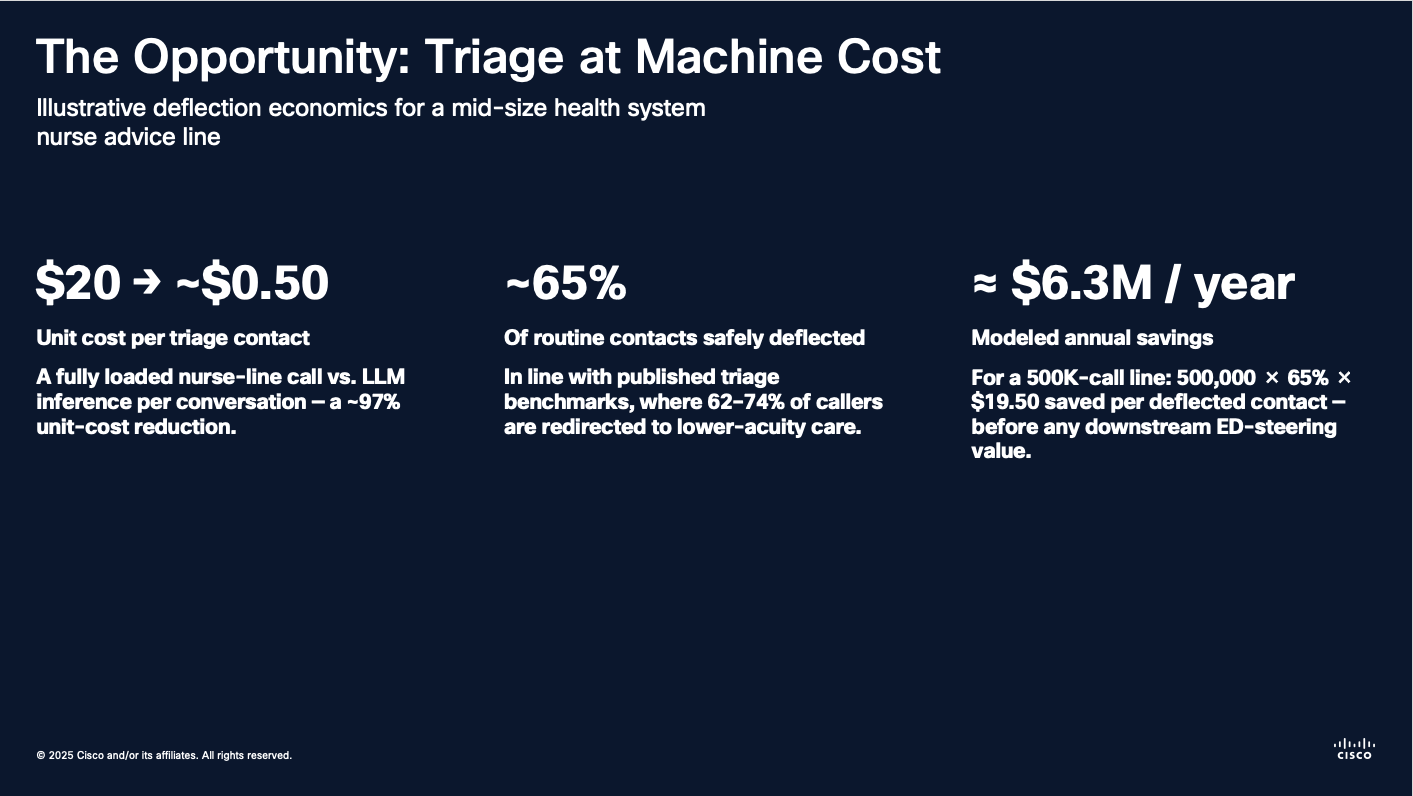
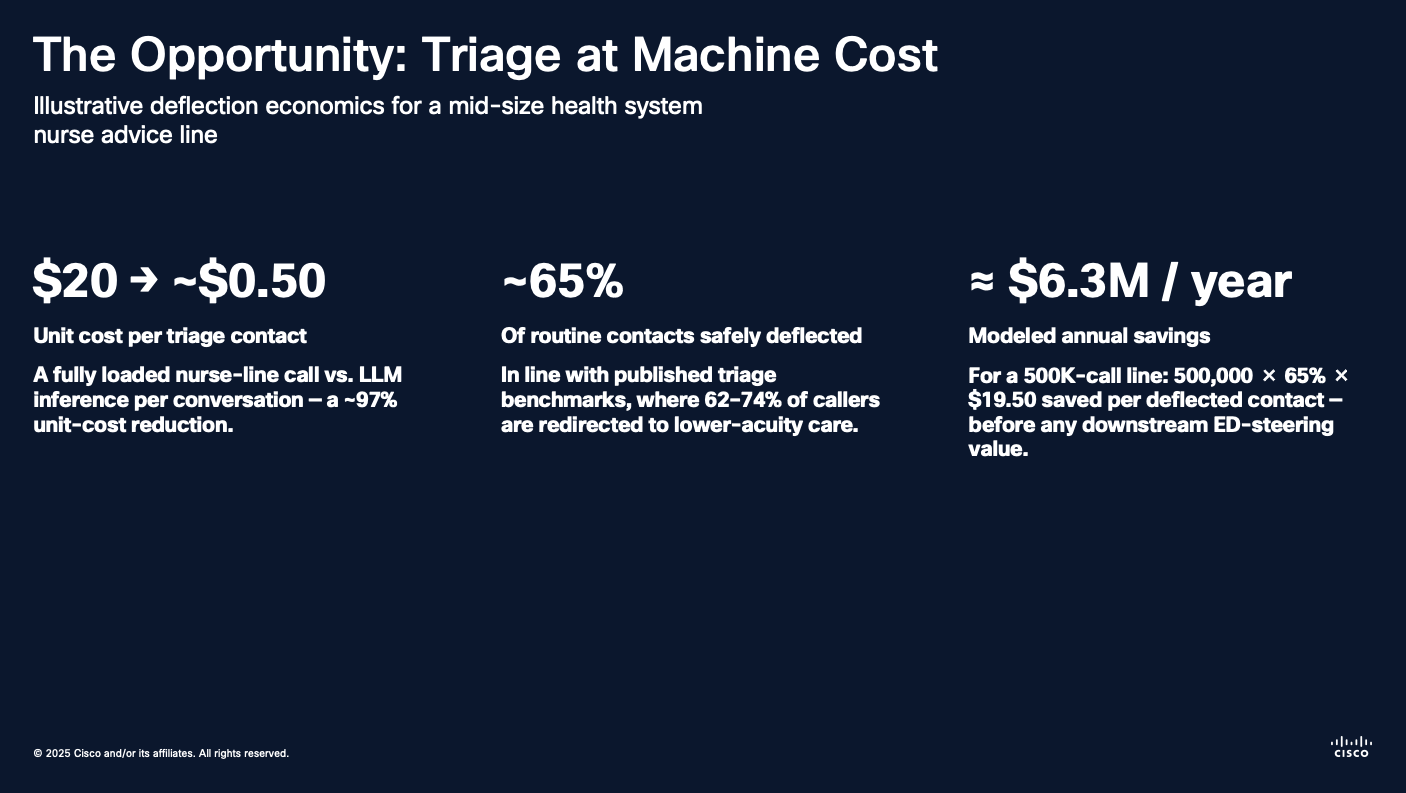
Update the two Scenario screenshots; tighten Thesis punctuation
Replace static/images/image-120.png and image-121.png with new versions of the
same two Scenario visuals (in place — those slots are referenced only by this
section), and end the One Cisco Thesis lead-in with a period instead of a colon.

Screenshots had again landed in the content directory with relative references;
moved into static/images/ and re-pointed absolutely.

diff --git a/content/workshops/ai-governance-healthcare/00-introduction.md b/content/workshops/ai-governance-healthcare/00-introduction.md
@@ -37,13 +37,13 @@ But scaling that value introduces material governance risk. Hallucinations, PII 
 
 ## The One Cisco Thesis
 
-One Cisco closes the governance gap end to end with **one integrated architecture across four pillars** — and the differentiator versus point tools is structural, not cosmetic:
+One Cisco closes the governance gap end to end with **one integrated architecture across four pillars** — and the differentiator versus point tools is structural, not cosmetic.
 
 > **Every AI interaction is captured once and correlated on a shared, OTel-compliant identifier, so security, operations, quality, and audit become one investigation, not four disconnected tools.**
 
 The four pillars:
 
-| Pillar | Capability | Platform |
+| **Pillar** | **Capability** | **Platform** |
 | --- | --- | --- |
 | **Measure / Evaluate** | Define **good**, then prove it — baseline vs. poisoned behavior, token & cost, signals that surface unknown unknowns, continuous metrics on a deployed agent | Splunk Agent Observability |
 | **Secure** | Runtime policy + guardrails on every prompt and response | Cisco AI Defense |
